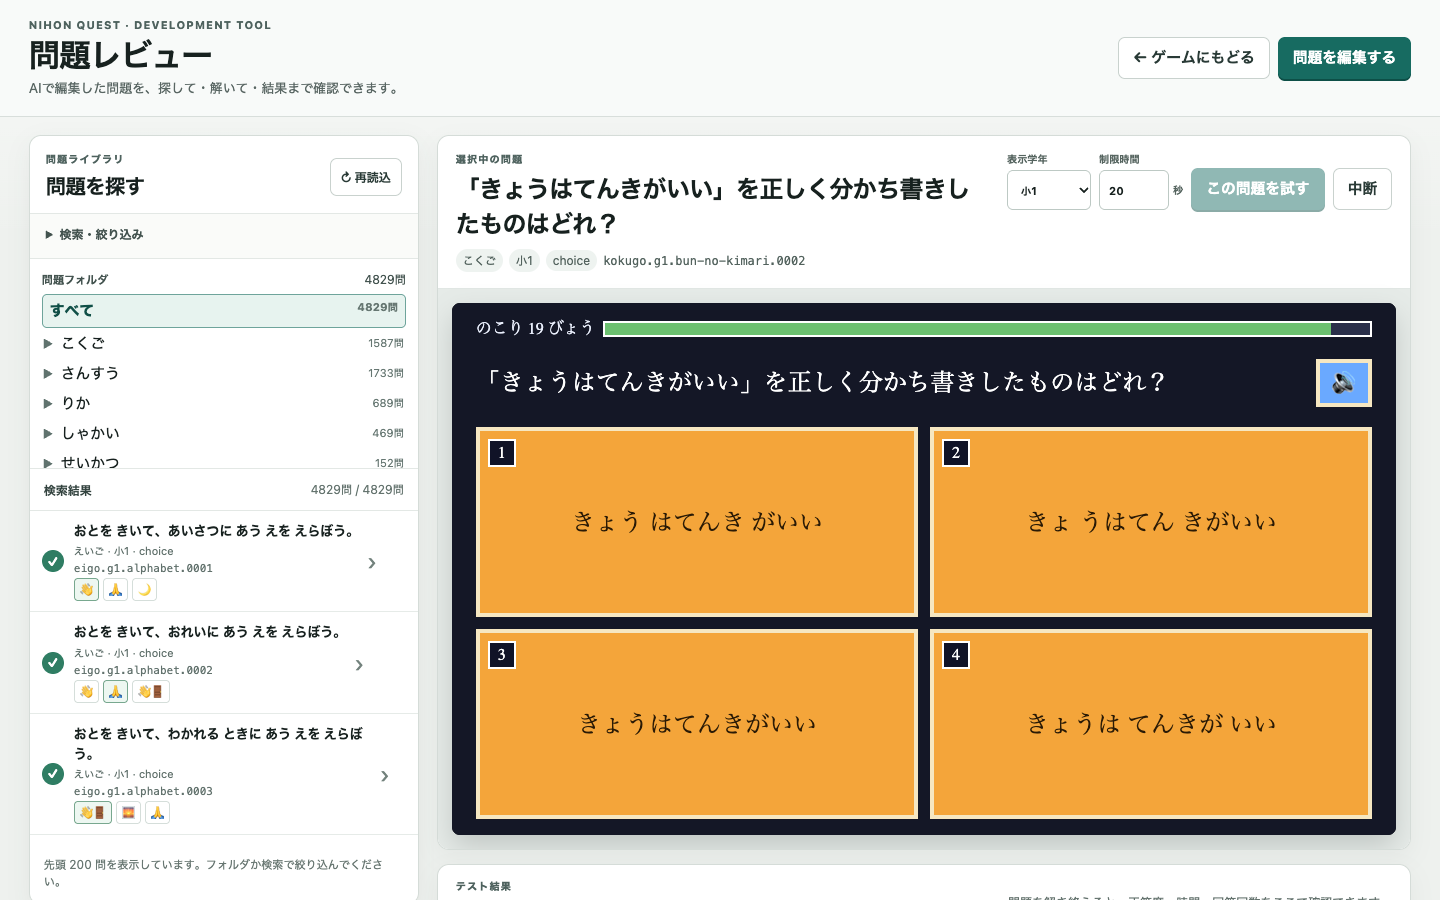
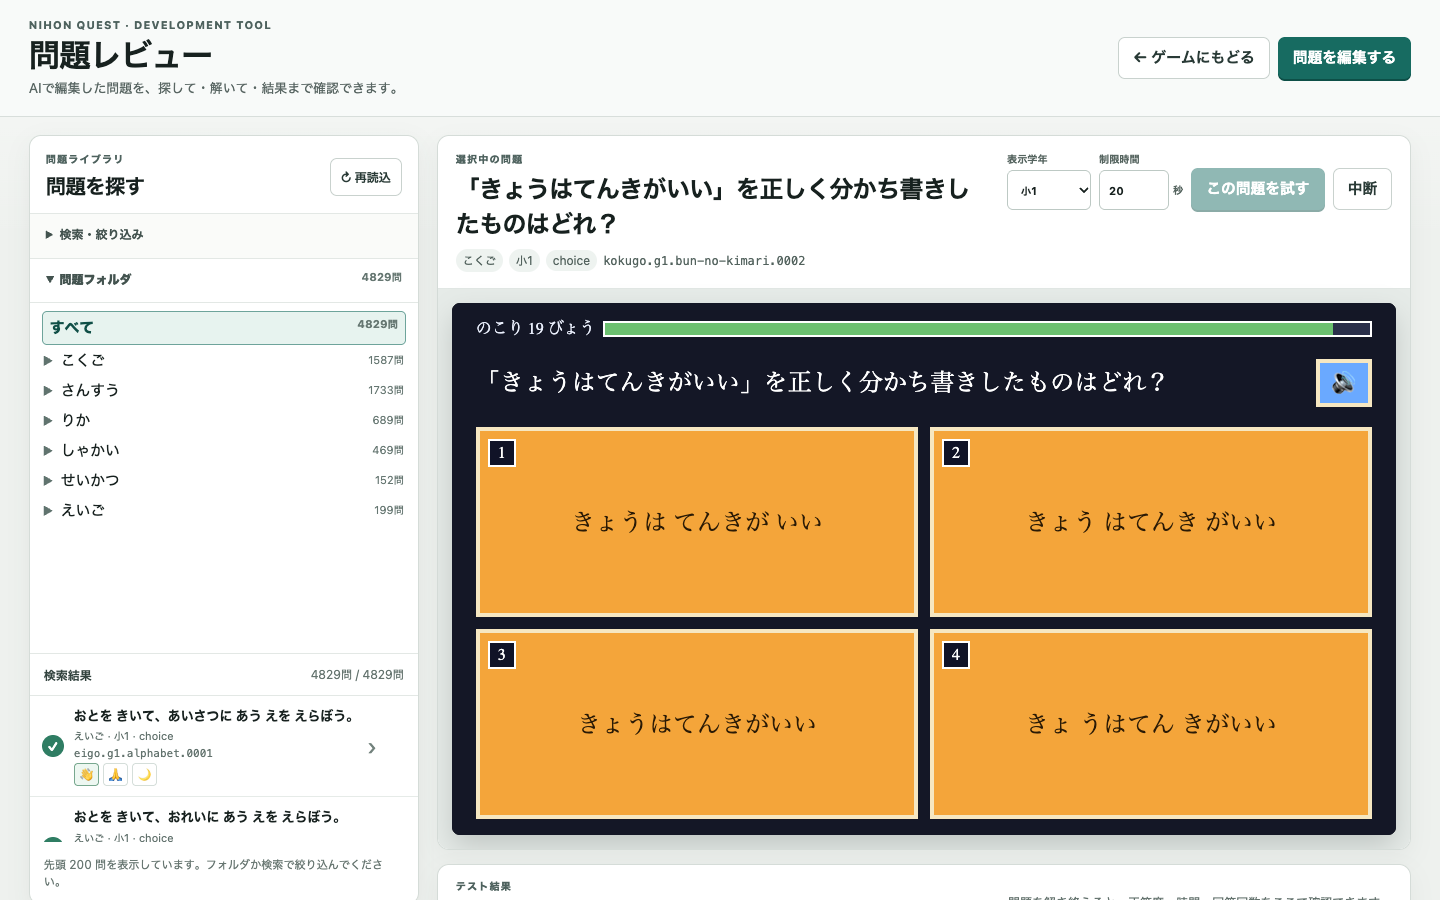
feat: expand collapsible question folder

diff --git a/src/tools/QuestionTree.tsx b/src/tools/QuestionTree.tsx
@@ -16,78 +16,80 @@ const pgText = (key: string) => stripRuby(tOpt(`tools.playground.${key}`) ?? '',
 
 export function QuestionTree({ catalog, units, subjects, selectedFile, onSelectFile }: QuestionTreeProps) {
   return (
-    <section class="pg-tree" aria-label={pgText('folder')}>
-      <div class="pg-tree-head">
+    <details class="pg-tree-details" open>
+      <summary>
         <strong>{pgText('folder')}</strong>
-        <span>
-          {catalog.totalQuestions}
-          {pgText('questionSuffix')}
-        </span>
-      </div>
-      <button
-        type="button"
-        class="pg-tree-all"
-        aria-pressed={selectedFile === null}
-        onClick={() => onSelectFile(null)}
-      >
-        {pgText('all')}{' '}
         <span class="pg-tree-count">
           {catalog.totalQuestions}
           {pgText('questionSuffix')}
         </span>
-      </button>
-      {catalog.subjects.map((subject) => (
-        <details data-subject={subject.subject}>
-          <summary>
-            <RubyLabel text={subjects.get(subject.subject) ?? subject.subject} />
-            <span class="pg-tree-count">
-              {subject.count}
-              {pgText('questionSuffix')}
-            </span>
-          </summary>
-          {subject.grades.map((grade) => (
-            <details data-grade={grade.grade}>
-              <summary>
-                {pgText('gradePrefix')}
-                {grade.grade}
-                <span class="pg-tree-count">
-                  {grade.count}
-                  {pgText('questionSuffix')}
-                </span>
-              </summary>
-              {grade.units.map((unit) => (
-                <details data-unit={unit.unit}>
-                  <summary>
-                    <RubyLabel text={units.get(unit.unit) ?? unit.unit} />
-                    <span class="pg-tree-count">
-                      {unit.count}
-                      {pgText('questionSuffix')}
-                    </span>
-                  </summary>
-                  <ul>
-                    {unit.sets.map((set) => (
-                      <li>
-                        <button
-                          type="button"
-                          aria-pressed={selectedFile === set.file}
-                          title={set.file}
-                          onClick={() => onSelectFile(set.file)}
-                        >
-                          {fileName(set.file)}{' '}
-                          <span class="pg-tree-count">
-                            {set.count}
-                            {pgText('questionSuffix')}
-                          </span>
-                        </button>
-                      </li>
-                    ))}
-                  </ul>
-                </details>
-              ))}
-            </details>
-          ))}
-        </details>
-      ))}
-    </section>
+      </summary>
+      <section class="pg-tree" aria-label={pgText('folder')}>
+        <button
+          type="button"
+          class="pg-tree-all"
+          aria-pressed={selectedFile === null}
+          onClick={() => onSelectFile(null)}
+        >
+          {pgText('all')}{' '}
+          <span class="pg-tree-count">
+            {catalog.totalQuestions}
+            {pgText('questionSuffix')}
+          </span>
+        </button>
+        {catalog.subjects.map((subject) => (
+          <details data-subject={subject.subject}>
+            <summary>
+              <RubyLabel text={subjects.get(subject.subject) ?? subject.subject} />
+              <span class="pg-tree-count">
+                {subject.count}
+                {pgText('questionSuffix')}
+              </span>
+            </summary>
+            {subject.grades.map((grade) => (
+              <details data-grade={grade.grade}>
+                <summary>
+                  {pgText('gradePrefix')}
+                  {grade.grade}
+                  <span class="pg-tree-count">
+                    {grade.count}
+                    {pgText('questionSuffix')}
+                  </span>
+                </summary>
+                {grade.units.map((unit) => (
+                  <details data-unit={unit.unit}>
+                    <summary>
+                      <RubyLabel text={units.get(unit.unit) ?? unit.unit} />
+                      <span class="pg-tree-count">
+                        {unit.count}
+                        {pgText('questionSuffix')}
+                      </span>
+                    </summary>
+                    <ul>
+                      {unit.sets.map((set) => (
+                        <li>
+                          <button
+                            type="button"
+                            aria-pressed={selectedFile === set.file}
+                            title={set.file}
+                            onClick={() => onSelectFile(set.file)}
+                          >
+                            {fileName(set.file)}{' '}
+                            <span class="pg-tree-count">
+                              {set.count}
+                              {pgText('questionSuffix')}
+                            </span>
+                          </button>
+                        </li>
+                      ))}
+                    </ul>
+                  </details>
+                ))}
+              </details>
+            ))}
+          </details>
+        ))}
+      </section>
+    </details>
   );
 }

diff --git a/src/tools/playground.css b/src/tools/playground.css
@@ -197,7 +197,8 @@ button:disabled {
   background: #fafbf9;
 }
 
-.pg-filter-details > summary {
+.pg-filter-details > summary,
+.pg-tree-details > summary {
   min-height: 44px;
   padding: 11px 16px;
   color: #43534f;
@@ -206,16 +207,19 @@ button:disabled {
   cursor: pointer;
 }
 
-.pg-filter-details > summary:hover {
+.pg-filter-details > summary:hover,
+.pg-tree-details > summary:hover {
   background: #f3f6f4;
 }
 
-.pg-filter-details > summary:focus-visible {
+.pg-filter-details > summary:focus-visible,
+.pg-tree-details > summary:focus-visible {
   outline: 2px solid #38715e;
   outline-offset: -3px;
 }
 
-.pg-filter-details[open] > summary {
+.pg-filter-details[open] > summary,
+.pg-tree-details[open] > summary {
   border-bottom: 1px solid #e3e8e5;
 }
 
@@ -282,21 +286,16 @@ button:disabled {
   overflow: hidden;
 }
 
-.pg-tree {
-  max-height: 210px;
+.pg-tree-details {
   flex: none;
-  overflow: auto;
-  padding: 12px 12px 10px;
   border-bottom: 1px solid #e3e8e5;
+  background: #fff;
 }
 
-.pg-tree-head {
-  display: flex;
-  align-items: center;
-  justify-content: space-between;
-  margin-bottom: 6px;
-  color: #43534f;
-  font-size: 12px;
+.pg-tree {
+  height: 350px;
+  overflow: auto;
+  padding: 8px 12px 10px;
 }
 
 .pg-tree details details {
@@ -864,10 +863,6 @@ button:disabled {
 
   .pg-question-list {
     max-height: 520px;
-  }
-
-  .pg-tree {
-    max-height: 260px;
   }
 }
 

diff --git a/tests/e2e/playground-list.spec.ts b/tests/e2e/playground-list.spec.ts
@@ -82,7 +82,15 @@ test('Playground の問題ツリー：教科からセットを選び、キーボ
   const rows = page.locator('.pg-question-row');
   await expect(rows.first()).toBeVisible({ timeout: 20_000 });
 
+  const treeDetails = page.locator('details.pg-tree-details');
   const tree = page.getByRole('region', { name: '問題フォルダ' });
+  await expect(treeDetails).toHaveAttribute('open', '');
+  expect((await tree.boundingBox())!.height).toBeGreaterThan(300);
+  await treeDetails.locator(':scope > summary').click();
+  await expect(tree).toBeHidden();
+  await treeDetails.locator(':scope > summary').click();
+  await expect(tree).toBeVisible();
+
   const all = tree.getByRole('button', { name: /すべて.*4829/ });
   await expect(all).toHaveAttribute('aria-pressed', 'true');
 

diff --git a/docs/01_ARCHITECTURE.md b/docs/01_ARCHITECTURE.md
@@ -207,7 +207,7 @@ export interface QuestionQuery {
 
 `/playground.html` — AI で編集した問題を「探す → 実際に解く → 結果を確認する」ための開発用レビューワークスペース。左に問題ライブラリ、右に問題プレビューと人間向けの採点結果を置く。1100px 以下では 960×540 基準の問題枠を崩さないため縦に並べる。
 
-**問題ライブラリ**（`src/tools/QuestionList.tsx`）は、生成済み `questionCatalog` を正とする教科 → 学年 → 単元 → セットのフォルダを主導線にし、検索・絞り込みは初期状態で閉じて表示する。最大200件の問題要約は同じナビゲーション内に表示する。カタログがない旧 manifest ではフォルダだけを隠し、一覧と検索は維持する。問題を選ぶとプレビューし、URL を `?q=<問題 id>` へ更新する。
+**問題ライブラリ**（`src/tools/QuestionList.tsx`）は、生成済み `questionCatalog` を正とする教科 → 学年 → 単元 → セットのフォルダを主導線にし、初期状態で開いた折りたたみ領域として広く表示する。検索・絞り込みは初期状態で閉じる。最大200件の問題要約は同じナビゲーション内に表示する。カタログがない旧 manifest ではフォルダだけを隠し、一覧と検索は維持する。問題を選ぶとプレビューし、URL を `?q=<問題 id>` へ更新する。
 
 プレビューは問題文・教科・学年・タイプを先に示し、採点後は正答度・所要時間・回答回数を生 JSON なしで確認できる。ファイル選択、問題 JSON、登録タイプ、生の `QuestionResult` は、初期状態で閉じた「技術情報」に残す。スキーマ不適合・未登録タイプ・ID 重複の監査と再読込、学年別漢字表示は従来どおり維持する。一覧は問題タイプで分岐せず、共通的な payload だけから要約を作る。
 

diff --git a/tasks/playground-ai-first-ui-walkthrough.md b/tasks/playground-ai-first-ui-walkthrough.md
@@ -5,7 +5,7 @@
 ## 作ったもの
 
 - Question Playground を「問題を探す → 実際に解く → 結果を確認する」レビュー・ワークスペースへ再構成した。
-- フォルダ、検索、絞り込み、問題要約を左の問題ライブラリにまとめた。問題フォルダを主導線にし、検索・絞り込みは初期状態で閉じる。旧 manifest の一覧フォールバックも維持した。
+- フォルダ、検索、絞り込み、問題要約を左の問題ライブラリにまとめた。問題フォルダは350pxの縦幅を確保して初期状態で開き、必要なら全体を折りたためる。検索・絞り込みは初期状態で閉じる。旧 manifest の一覧フォールバックも維持した。
 - 選択問題の問題文・教科・学年・タイプ、テスト操作、ステージをひとつのプレビューに集約した。
 - 採点結果を「正解 / 時間切れ」、正答度、所要時間、回答回数で確認できるようにした。
 - 元ファイル、問題 JSON、登録タイプ、生の `QuestionResult` は削除せず、初期状態で閉じた「技術情報」へ移した。
